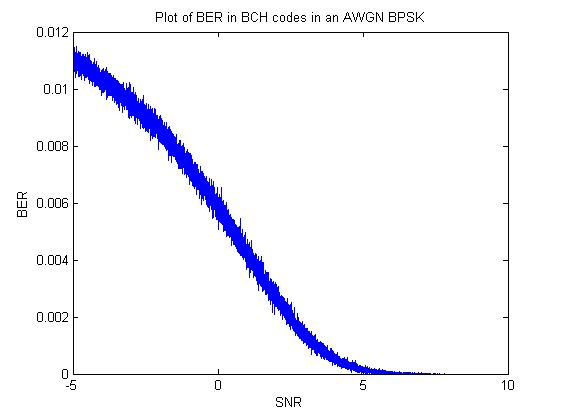
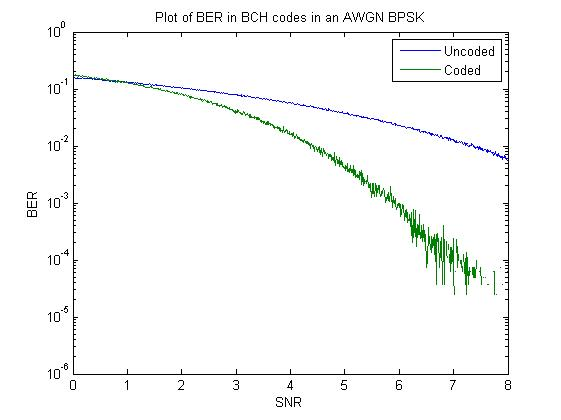
Updated plots with better images

diff --git a/bch_ber_simulation.m b/bch_ber_simulation.m
@@ -1,8 +1,7 @@
 % simulations section 1) part 8)
 % Find the BER over a BCH code
-pValues = 0.001:0.001:0.35;
-snrValues = -5:0.001:10;
-repetitions = 500;
+pValues = [0.005 0.002 0.001];
+repetitions = 10000000;
 
 msg = rand(length(pValues)*repetitions, 16) > 0.5;
 errors = rand(length(msg), 31) < ...
@@ -12,10 +11,15 @@ bch_encoded = encoder(msg);
 bch_decoded = matlabBCHdecode(mod(bch_encoded + errors, 2));
 bitErrs = reshape((sum(mod(bch_decoded' + msg',2))/16)', repetitions, []);
 BER = sum(bitErrs)/length(bitErrs); % take the average
+errors = rand(length(msg), 16) < ...
+        repmat(reshape(repmat(pValues,repetitions,1),1,[])',1,16);
+bitErrs = reshape((sum(mod(errors',2))./16)', repetitions, []);
+BERUncoded = sum(bitErrs)/length(bitErrs);
 
 figure()
-semilogy(pValues, BER);
+semilogy(fliplr(pValues), fliplr([BERUncoded; BER]));
 title('Plot of BER in BCH codes in a BSC');
+legend('Uncoded', 'Coded');
 ylim([10^-6 10^0]);
 xlabel('P values');
 ylabel('BER');
@@ -27,14 +31,18 @@ Xuncoded = 20.*log10(sqrt(2).*erfinv(1 - 2.*pValues));
 Xcoded = Xuncoded - 10.*log10(16/31); % R = code Rate = k/n
 
 figure()
-semilogy([Xuncoded; Xcoded], BER);
+semilogy(Xuncoded, BERUncoded, Xcoded, BER, '-g');
 title('Plot of BER in BCH codes in a BSC');
 legend('Uncoded', 'Coded');
 ylim([10^-6 10^0]);
 xlabel('SNR');
 ylabel('BER');
 
+clear all; % otherwise run out of memory
 % section 1) q 8)b)
+
+snrValues = 0:0.01:8;
+repetitions = 5000;
 
 % SNR = 10*log10((1/ampl)^2), ampl = 10^(-SNR/20)
 msg = rand(length(snrValues)*repetitions, 16) > 0.5;
